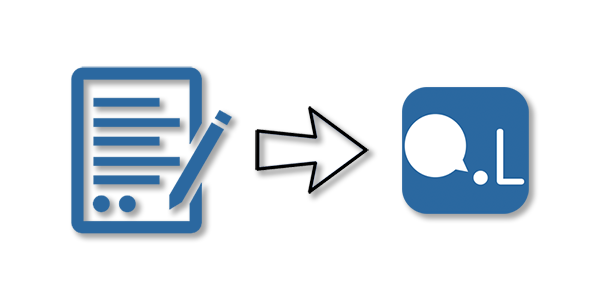
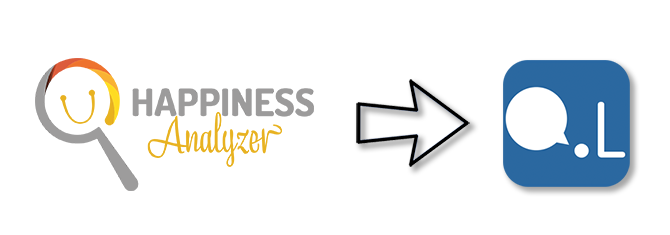
join: adds new images, update structure, style and en.yml file

Changed region(s): [[0.03, 0.2085, 0.96, 0.834]]

diff --git a/app/assets/stylesheets/modules/_join.scss b/app/assets/stylesheets/modules/_join.scss
@@ -6,6 +6,31 @@
             width: 260px;
         }
     }
+
+    .app, .form {
+        display: inline-block;
+        @include breakpoint(xs){
+            margin: 0 15px;
+        }
+        img {
+            width: 100%;
+        }
+    }
+    .form {
+        img {
+            max-width: 145px;
+            @include breakpoint(xs){
+                width: 145px;
+            }
+        }
+    }
+    .app {
+        img {
+            @include breakpoint(xs){
+                width: 380px;
+            }
+        }
+    }
 }
 
 .location-filters {

diff --git a/app/assets/stylesheets/_main.scss b/app/assets/stylesheets/_main.scss
@@ -74,6 +74,13 @@ img {
     margin-top: 40px;
 }
 
+.spaced {
+    margin-top: 15px;
+}
+
+.double-spaced {
+    margin-top: 30px;
+}
 
 h3, .sub-heading {
     font-family: $serifFont;
